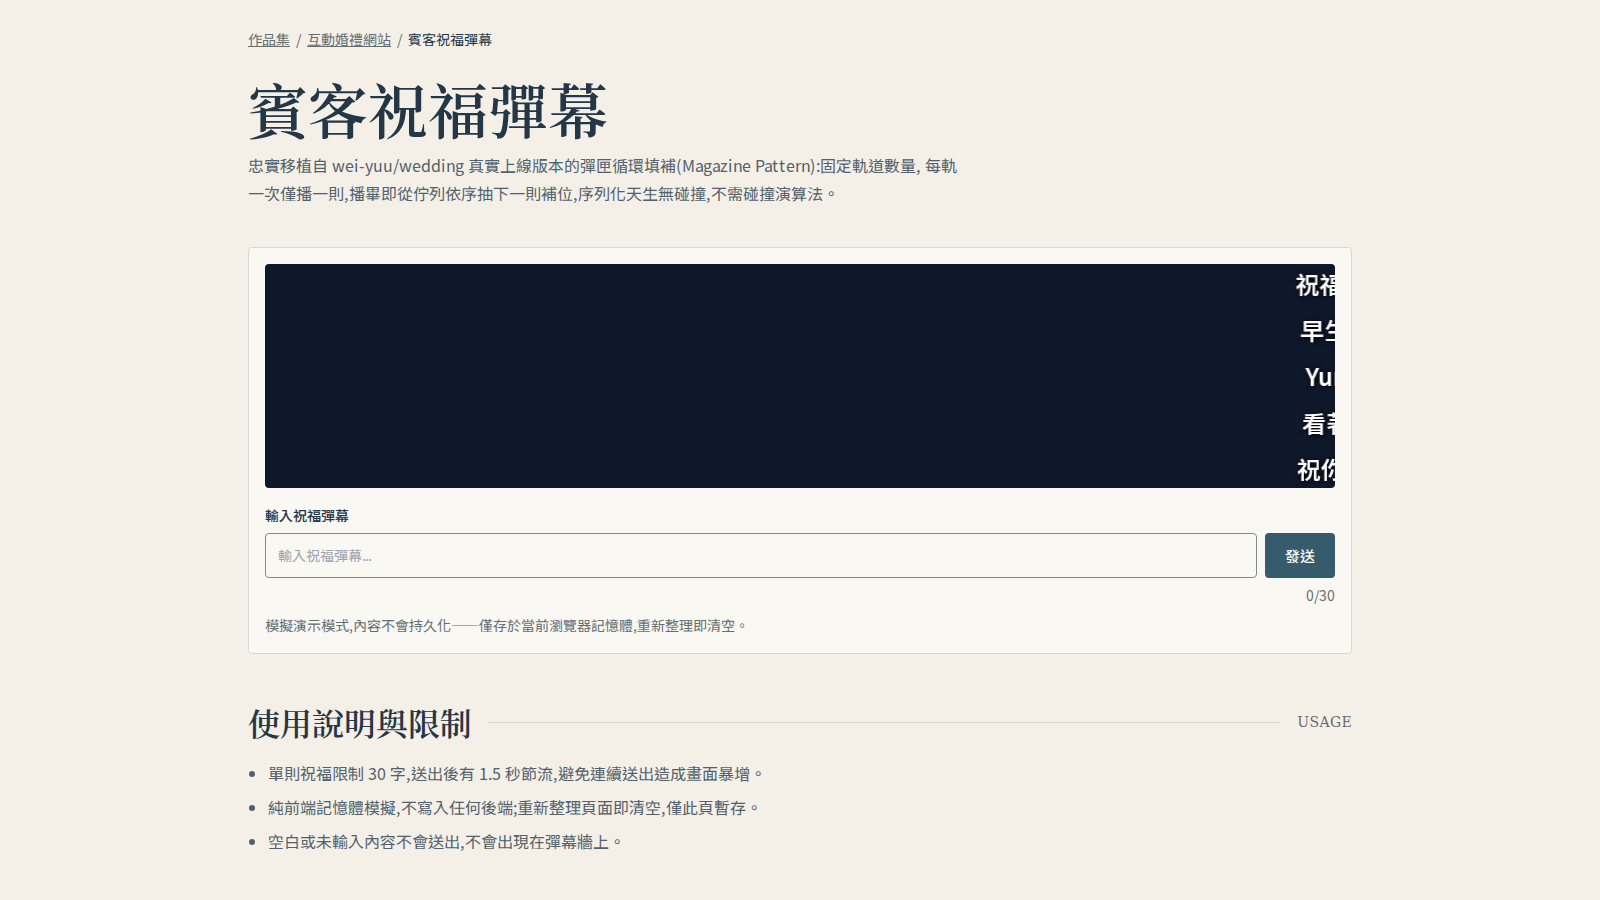
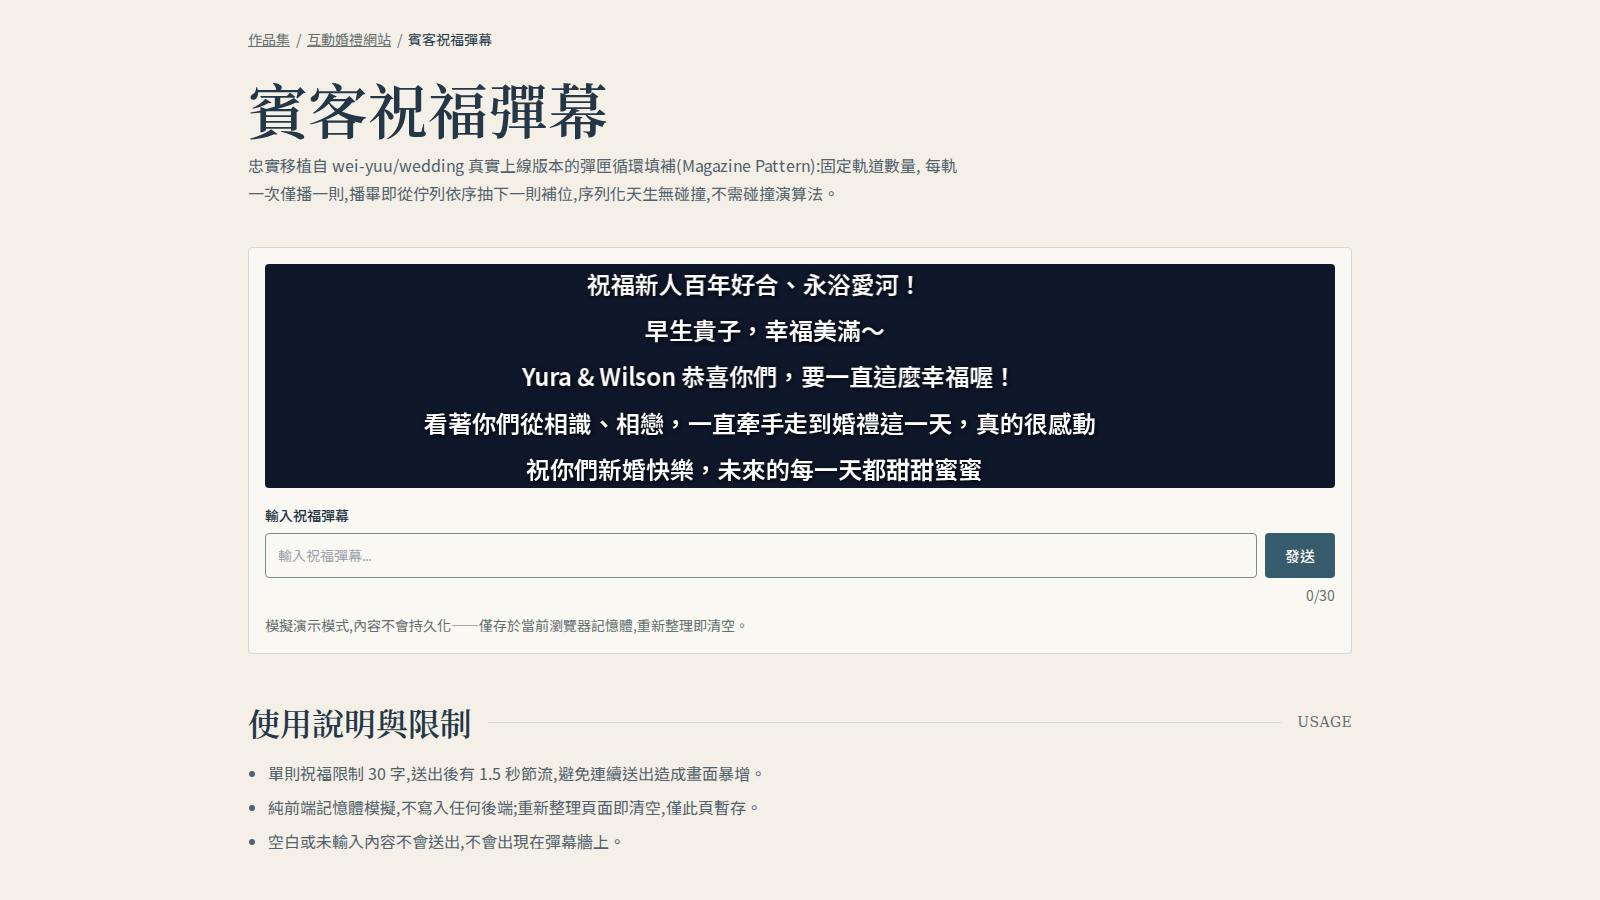
fix: 修正彈幕預覽文字可讀性,婚禮截圖改用 AVIF 轉碼
P1-09(第二輪 code review 修正):
- 彈幕預覽重新擷取前,把每條彈幕的 CSS animation 暫停在各自
  duration 的 50% 進度,確保 5 句祝福都完整滑進舞台中央可讀範圍,
  不再是全部停在剛進場、只露出開頭幾個字的右緣。
- 婚禮網站桌機/手機截圖跟彈幕預覽改用 NuxtImg format="avif",不再
  直接載入原始 PNG(桌機約 1.60MB、手機約 0.99MB);做法跟首頁海景圖
  一致,用兩張 NuxtImg 各自負責一個斷點、靠 class 切換顯示,而非
  <picture><source>(那樣吃不到 @nuxt/image 的轉碼)。實測轉碼後
  桌機 72KB、手機 44KB、彈幕預覽 44KB,較原始 PNG 大幅縮減。

lint/typecheck/單元測試/generate(32 條路由,含新的 _ipx AVIF 衍生
產物)/26 個 e2e 全數通過,並用截圖核對轉碼後畫面正常顯示。

Website 設計文件與調整清單的 A07/A09/A10/A13 狀態同步仍待使用者
自行處理,不在這次範圍內。

Changed region(s): [[0.25, 0.28, 0.6875, 0.56], [0.8125, 0.4044, 0.8438, 0.5289], [0.8125, 0.28, 0.8438, 0.3733]]

diff --git a/pages/projects/wedding/index.vue b/pages/projects/wedding/index.vue
@@ -101,18 +101,31 @@ useHead({
                    兩張圖都已換成從真實上線站(wei-yuu.github.io/wedding)
                    實際擷取的畫面,解析度符合 Website 設計文件 §5.1 的
                    A09 規格(桌機 ≥1600、手機 ≥750):桌機 1600×1000、
-                   手機 750×1624。 -->
-              <picture>
-                <source media="(max-width: 639px)" srcset="/images/wedding-site-mobile.png">
-                <img
-                  src="/images/wedding-site-desktop.png"
-                  width="1600"
-                  height="1000"
-                  loading="lazy"
-                  alt="互動婚禮網站首頁的實際上線畫面"
-                  class="aspect-[750/1624] w-full rounded border border-wy-border-subtle bg-wy-surface object-cover object-top sm:aspect-[1600/1000]"
-                >
-              </picture>
+                   手機 750×1624。
+                   P1-09(code review 修正):原生 <picture><source> 直接
+                   載入原始 PNG(桌機約 1.60MB、手機約 0.99MB),沒有經過
+                   設計文件 §5.1 要求的轉碼最佳化。改用跟首頁海景圖
+                   (pages/index.vue)同一套手法——兩張 NuxtImg 各自負責
+                   一個斷點、用 class 切換顯示,而不是 <picture><source>,
+                   這樣才能吃到 @nuxt/image 的 format="avif" 轉碼。 -->
+              <NuxtImg
+                src="/images/wedding-site-mobile.png"
+                format="avif"
+                width="750"
+                height="1624"
+                loading="lazy"
+                alt="互動婚禮網站首頁的實際上線畫面(手機版)"
+                class="aspect-[750/1624] w-full rounded border border-wy-border-subtle bg-wy-surface object-cover object-top sm:hidden"
+              />
+              <NuxtImg
+                src="/images/wedding-site-desktop.png"
+                format="avif"
+                width="1600"
+                height="1000"
+                loading="lazy"
+                alt="互動婚禮網站首頁的實際上線畫面(桌機版)"
+                class="hidden aspect-[1600/1000] w-full rounded border border-wy-border-subtle bg-wy-surface object-cover object-top sm:block"
+              />
               <figcaption class="mt-2 text-body-sm text-wy-text-muted">婚禮網站首頁（桌機與手機實際畫面）</figcaption>
             </figure>
             <figure>
@@ -121,15 +134,21 @@ useHead({
                    尺寸 1200×675 也低於 Website 設計文件 §5.1 的 A10 規格
                    (1600×900)。重新擷取本專案 /projects/wedding/bullet-engine
                    的實際畫面,涵蓋標題/說明/完整彈幕舞台/輸入框/發送按鈕/
-                   字數提示,尺寸改為規格要求的 1600×900。 -->
-              <img
+                   字數提示,尺寸改為規格要求的 1600×900。
+                   第二輪 code review 修正:原本截圖時 5 條彈幕都停在剛進場
+                   的最右緣,只露出開頭幾個字——改成擷取前先把每條彈幕的
+                   CSS animation 暫停在各自 duration 的 50% 進度,確保每句
+                   祝福都完整滑進舞台中央可讀的範圍。改用 NuxtImg
+                   format="avif" 轉碼,不直接載入原始 PNG。 -->
+              <NuxtImg
                 src="/images/bullet-engine-preview.png"
+                format="avif"
                 width="1600"
                 height="900"
                 loading="lazy"
                 alt="賓客祝福彈幕引擎的實際執行畫面,含輸入框與發送按鈕"
                 class="aspect-video w-full rounded border border-wy-border-subtle bg-wy-surface object-cover"
-              >
+              />
               <figcaption class="mt-2 text-body-sm text-wy-text-muted">賓客祝福彈幕引擎靜態預覽</figcaption>
             </figure>
           </div>
